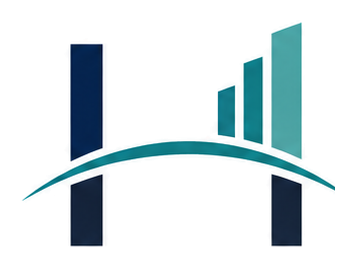
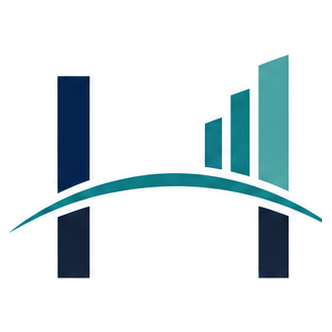
horizon.png is square now
It was 355 x 267, copied straight across from Horizon's own
public/horizon-icon.png when this repo took over on 2026-09-13, so it
letterboxed in Unraid's square slot while the other three sat properly.

Trimmed to content and padded to 332 x 332 on transparency. Deliberately
not upscaled to match the other three: 355 is the only master anywhere in
the Horizon repo -- public/horizon-icon.png, src/app/icon.png and
src/assets/horizon-icon.png are byte-identical copies of it -- and
enlarging would only soften what Unraid draws at thumbnail size. Square is
the part that was wrong.

The RGB buried under alpha=0 is pure black here, so none of chronicle.png's
trap, but it was built the same careful way regardless: premultiplied
across the crop and pad, thresholded bbox, unpremultiplied at the end.

README corrected -- it claimed every icon was 512 x 512 -- and gains the
other half of the lesson Horizon taught: a label is baked at container
creation, so a corrected compose file does nothing until up -d.

Changed region(s): [[0.0301, 0.0899, 0.9639, 0.9288]]

diff --git a/README.md b/README.md
@@ -21,8 +21,11 @@ Referenced as:
 | `talos.png` | `talos`, `talos-voice`, `speaches` |
 | `chronicle.png` | `adventurers-chronicle`, `adventurers-chronicle-db` |
 
-512 × 512 PNG on transparency, so each one sits on Unraid's page rather than in
-a box of its own.
+Square PNGs on transparency, so each one sits on Unraid's page rather than in a
+box of its own. Three are 512 × 512; `horizon.png` is 332 × 332, because the
+only master in the Horizon repo is 355 × 267 and enlarging it would just soften
+what Unraid draws at thumbnail size. Square is what matters here. The pixel
+count is not.
 
 **A warning worth the space, because it cost three wrong versions of
 `chronicle.png`.** Its source, the Chronicle's `public/logo-icon.png`, is 73%
@@ -50,3 +53,10 @@ change — a new URL is a new cache entry, and the icon arrives on the next
 That is why the labels read, for example:
 
     https://raw.githubusercontent.com/Pallarran/white-icons/main/steward.png?v=2
+
+**And a label is baked into a container when it is created**, so editing a
+compose file does nothing at all until `up -d` recreates the container. The two
+halves fail independently and look identical from the Docker tab, which is how
+Horizon's icon stayed missing: the URL in its compose file was corrected on
+2026-09-13, and both the running containers and Unraid's cache went on serving
+the old 404 for two months.
